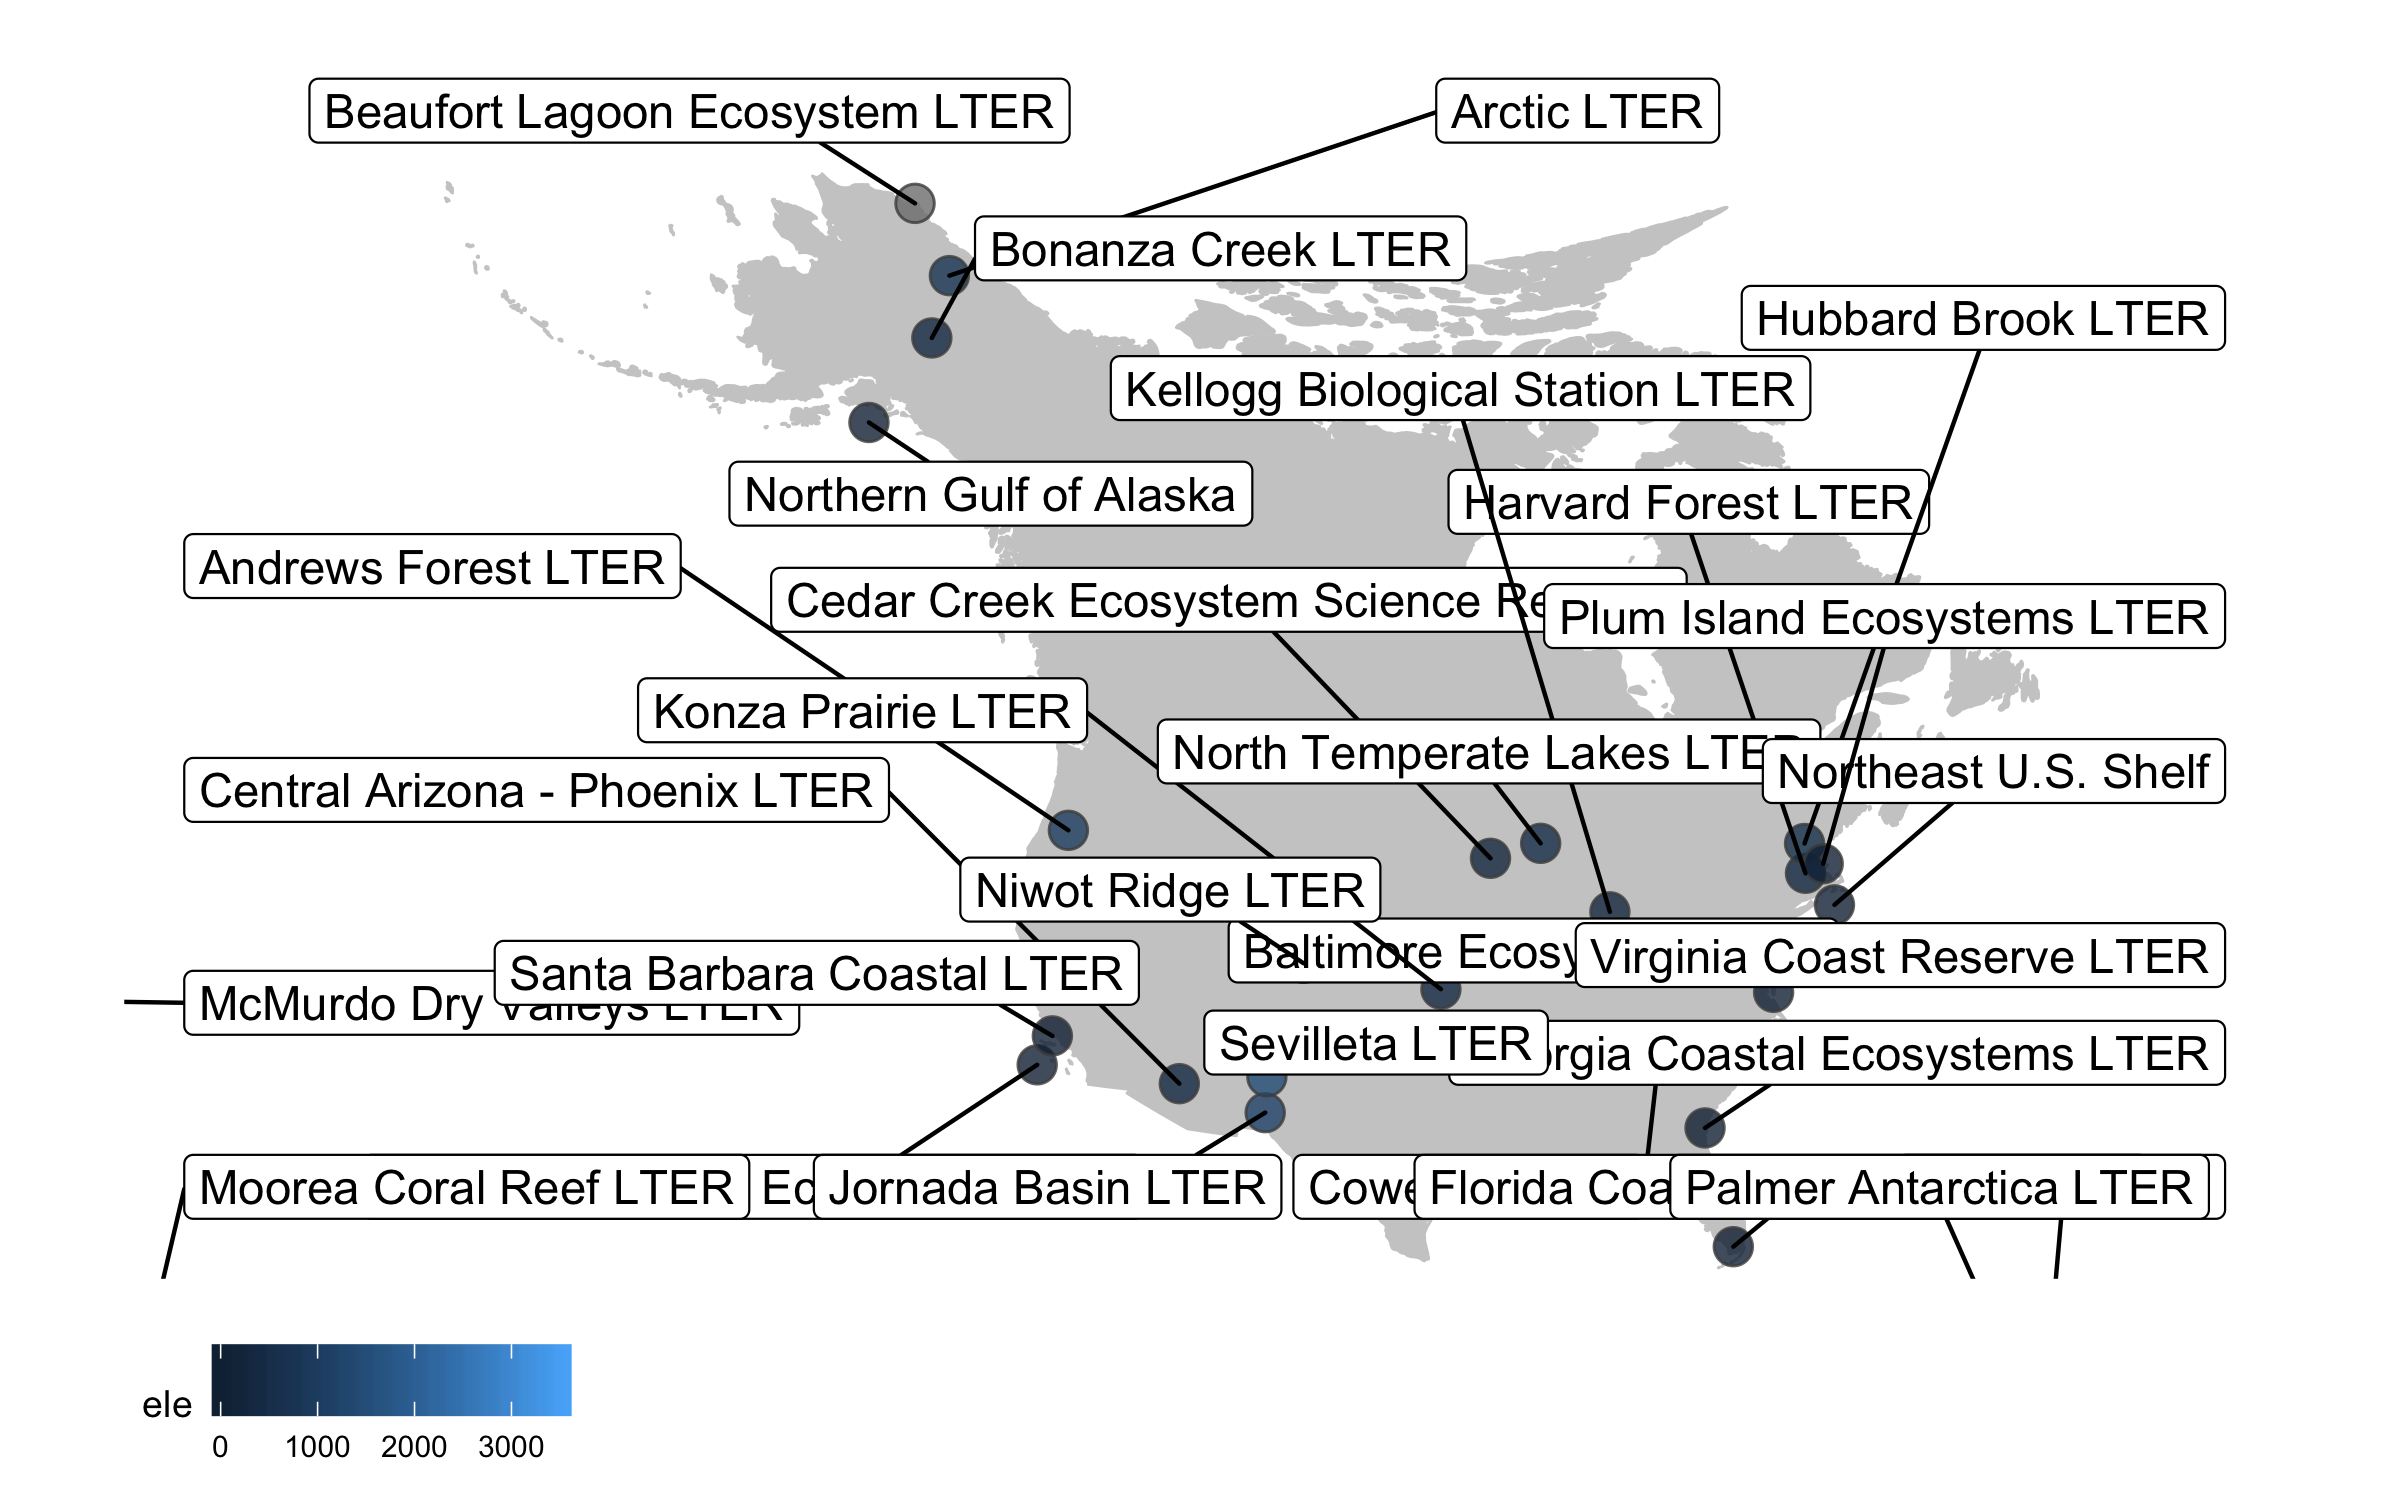
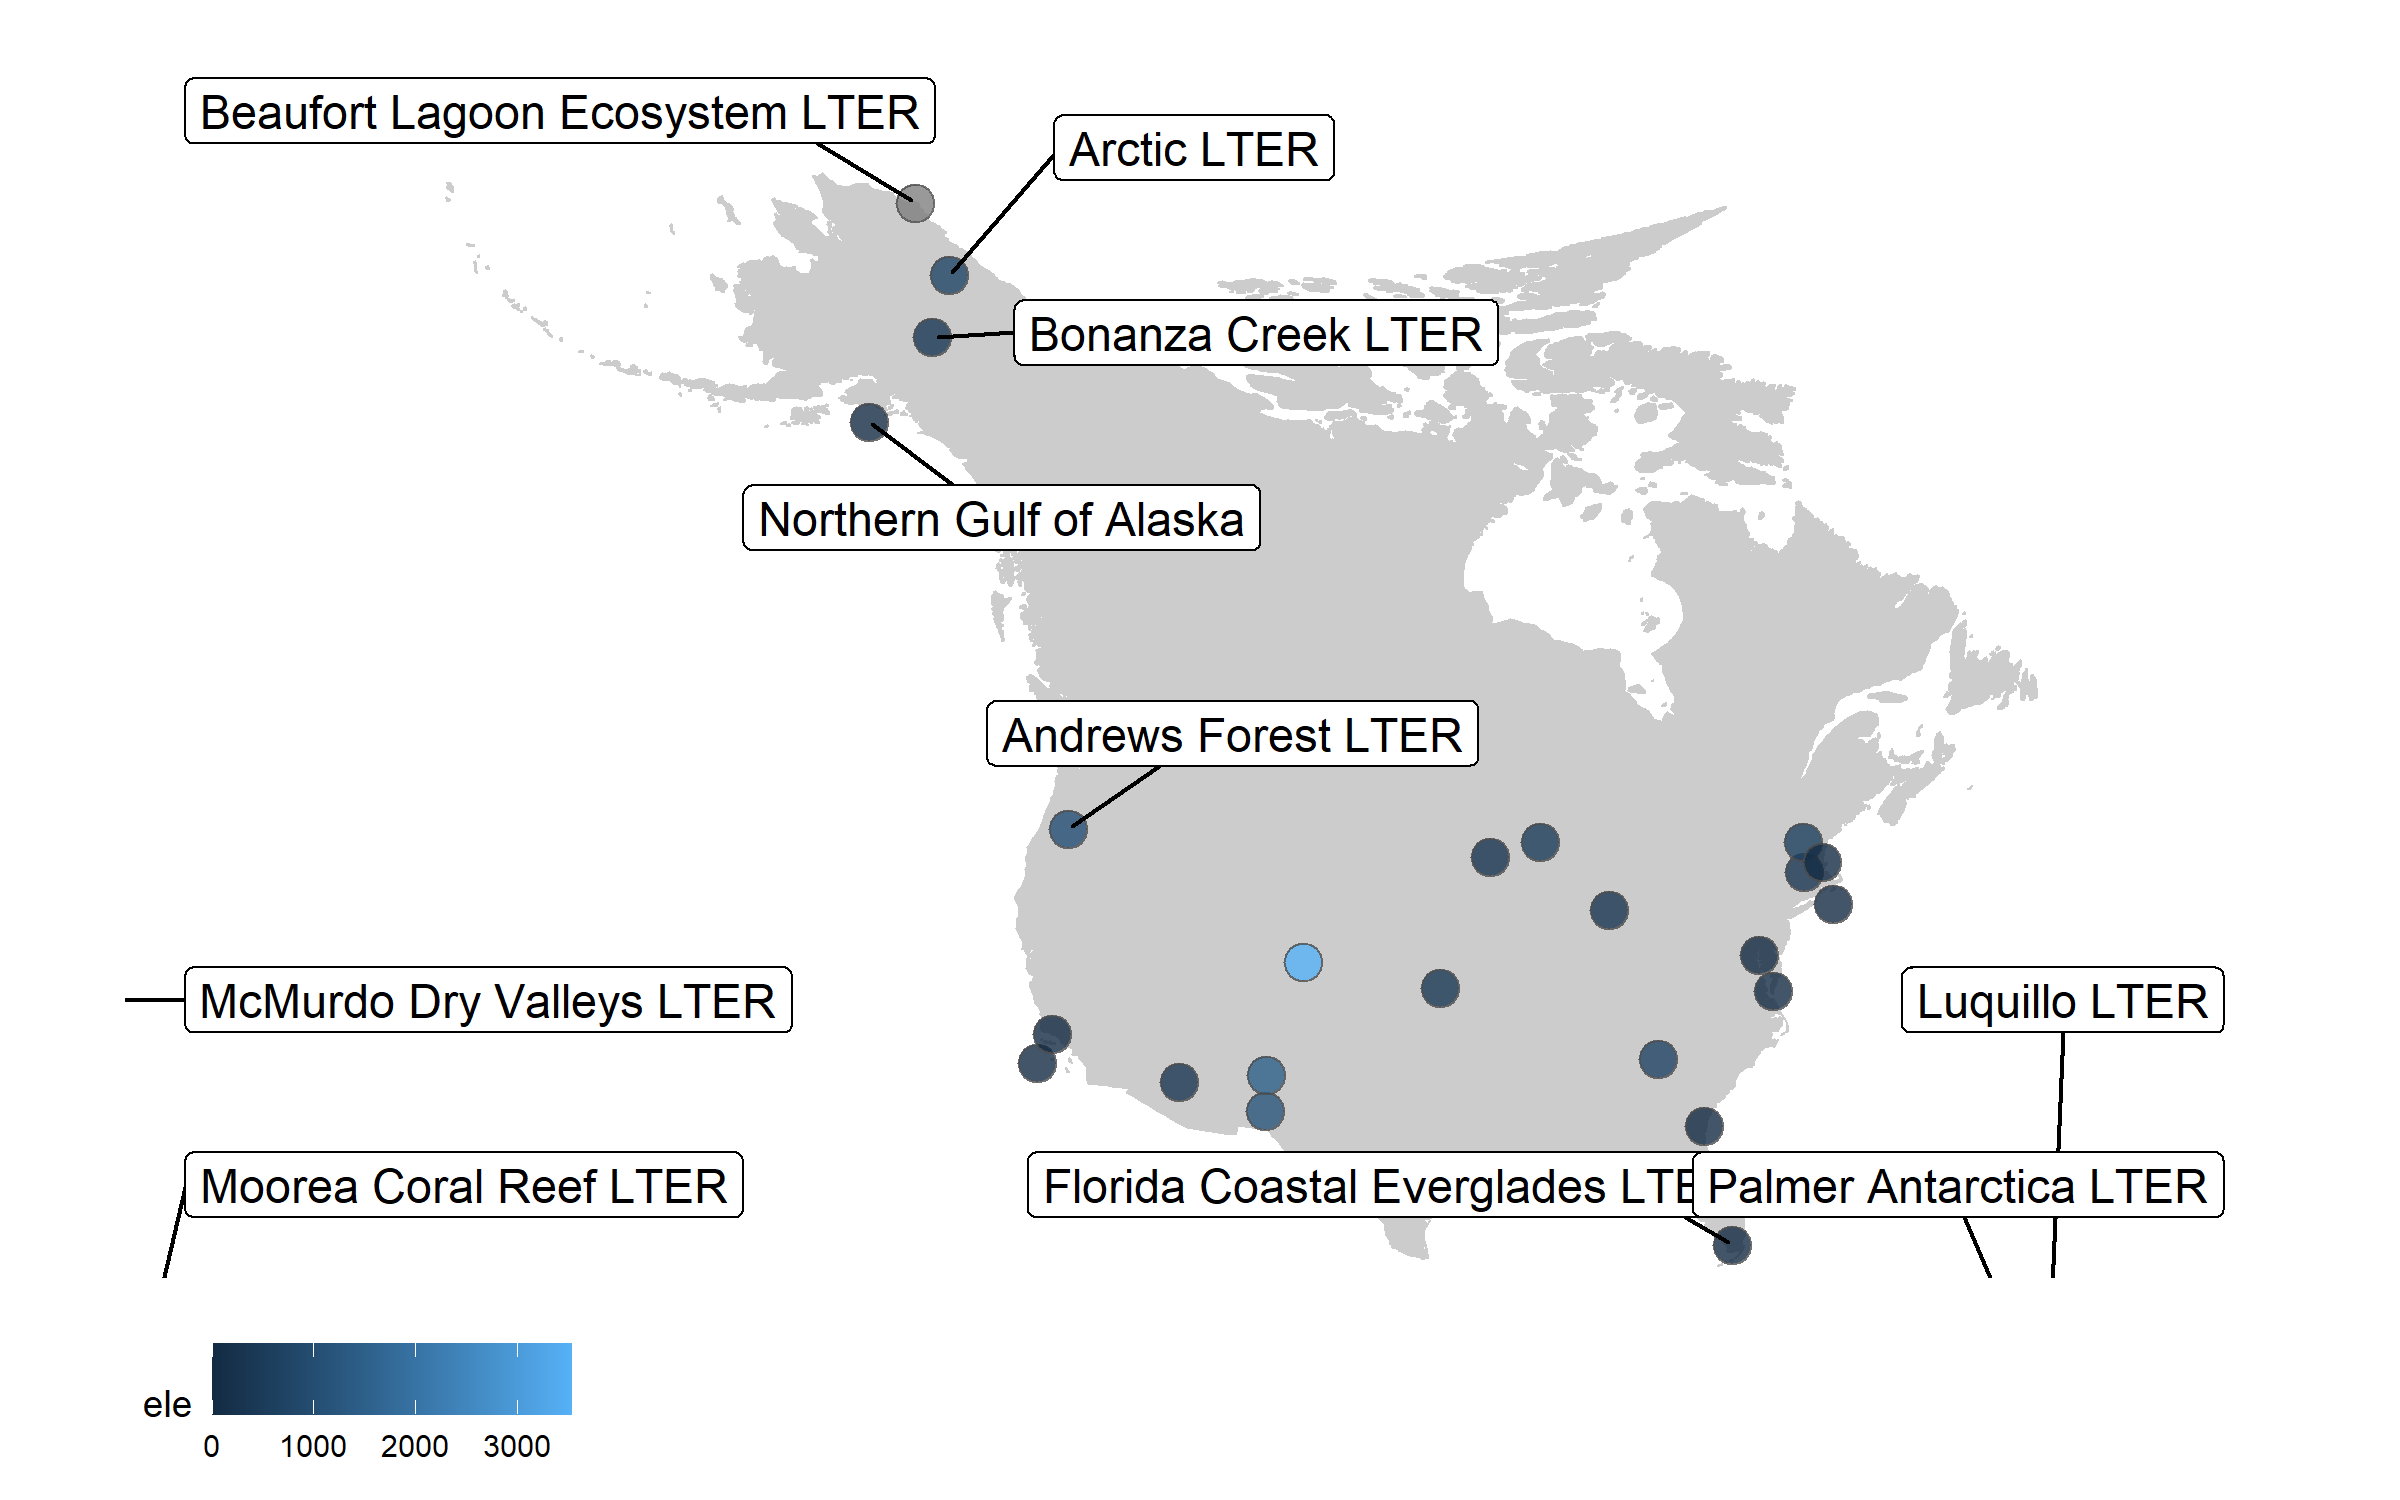
minor fixes - dataviz-beautification-synthesis
... and more images moved to dedicated images folder

diff --git a/_tutorials/dataviz-beautification-synthesis.md b/_tutorials/dataviz-beautification-synthesis.md
@@ -273,7 +273,7 @@ ggsave(lter_map6, filename = "map6.png",
 
 <center> <img src="{{ site.baseurl }}/assets/img/tutorials/dataviz-beautification-synthesis/map6.png" alt="Img" style="width: 700px;"/> </center>
 
-Well, we _slightly_ overdid it with the labels, we have a lot of sites and it's definitely an eye sore to look at all of their names at once. But where annotations really shine is in drawing attention to a specific point or data record. So we can add a label just for one of the sites, Niwot Ridge, from where the plant data for the rest of the tutorial comes.
+Well, we _slightly_ overdid it with the labels, so we got a warning that there are too many labels and a map where they don't overlap a lot couldn't be constructed. (Depending on your version of packages, you may instead get a map with all the labels, but with too many of them overlapping). But where annotations really shine is in drawing attention to a specific point or data record. So we can add a label just for one of the sites, Niwot Ridge, from where the plant data for the rest of the tutorial comes.
 
 ```r
 (lter_map7 <- ggplot() +
@@ -425,8 +425,9 @@ ggsave(distributions2, filename = "distributions2.png",
 
 <center> <img src="{{ site.baseurl }}/assets/img/tutorials/dataviz-beautification-synthesis/distributions2.png" alt="Img" style="width: 500px;"/> </center>
 
+__You may get a warning that the font in the theme is not available on your computer.__ If that happens, go back to the code chunk constructing `theme_niwot()` and remove the font line `text = element_text(family = "Helvetica Light"),` or replace the font with another one you have available. Then, remember to re-run that code chunk to update the function before proceeding.
 
-This is better, but it's still taxing on a reader or observer of the graph to figure out, for example, where is the mean in each cateogry. Thus we can overlay the violins with box plots.
+This graph is better, but it's still taxing on a reader or observer of the graph to figure out, for example, where is the mean in each cateogry. Thus we can overlay the violins with box plots.
 
 ```r
 (distributions3 <- ggplot(niwot_richness, aes(x = fert, y = richness)) +
@@ -740,7 +741,7 @@ bird_traits <- read.csv("elton_birds.csv")
 
 We can check out what the data look like now, either by clicking on the objects name on the right in the list in your working environment, or by running `View(bird_pops)` in the console.
 
-<center> <img src="{{ site.baseurl }}/assets/img/tutorials/data-synthesis/ox_wide.png" alt="Img" style="width: 600px;"/> </center>
+<center> <img src="{{ site.baseurl }}/assets/img/tutorials/dataviz-beautification-synthesis/ox_wide.png" alt="Img" style="width: 600px;"/> </center>
 
 __The data are in a wide format (each row contains a population that has been monitored over time and towards the right of the data frame there are lots of columns with population estimates for each year) and the column names are capitalised. Whenever working with data from different sources, chances are each dataset will follow a different column naming system, which can get confusing later on, so in general it is best to pick whatever naming system works for you and apply that to all datasets before you start working with them.__
 
@@ -771,7 +772,7 @@ Because column names are coded in as characters, when we turned the column names
 bird_pops_long$year <- parse_number(bird_pops_long$year)
 ```
 
-<center> <img src="{{ site.baseurl }}/assets/img/tutorials/data-synthesis/ox_long.png" alt="Img" style="width: 600px;"/> </center>
+<center> <img src="{{ site.baseurl }}/assets/img/tutorials/dataviz-beautification-synthesis/ox_long.png" alt="Img" style="width: 600px;"/> </center>
 
 Check out the data frame again to make sure the years really look like years. As you're looking through, you might notice something else. We have many columns in the data frame, but there isn't a column with the species' name. We can make one super quickly, since there are already columns for the genus and the species.
 
@@ -869,7 +870,7 @@ head(aus_models)
 # Check out the model data frame
 ```
 
-<center> <img src="{{ site.baseurl }}/assets/img/tutorials/data-synthesis/model_df.png" alt="Img" style="width: 600px;"/> </center>
+<center> <img src="{{ site.baseurl }}/assets/img/tutorials/dataviz-beautification-synthesis/model_df.png" alt="Img" style="width: 600px;"/> </center>
 
 <a name="synthesis"></a>
 
@@ -902,7 +903,7 @@ bird_models_traits <- left_join(aus_models, bird_diet, by = "species.name") %>%
 head(bird_models_traits)
 ```
 
-<center> <img src="{{ site.baseurl }}/assets/img/tutorials/data-synthesis/joined.png" alt="Img" style="width: 600px;"/> </center>
+<center> <img src="{{ site.baseurl }}/assets/img/tutorials/dataviz-beautification-synthesis/joined.png" alt="Img" style="width: 600px;"/> </center>
 
 __Now we can explore how bird population trends vary across different feeding strategies. The graphs below are all different ways to answer the same question. Have a ponder about which graph you like the most.__
 
@@ -917,22 +918,22 @@ __Now we can explore how bird population trends vary across different feeding st
 
 ```
 
-<center> <img src="{{ site.baseurl }}/assets/img/tutorials/data-synthesis/trends_diet1a.png" alt="Img" style="width: 500px;"/>  <img src="{{ site.baseurl }}/assets/img/tutorials/data-synthesis/trends_diet1b.png" alt="Img" style="width: 500px;"/></center>
+<center> <img src="{{ site.baseurl }}/assets/img/tutorials/dataviz-beautification-synthesis/trends_diet1a.png" alt="Img" style="width: 500px;"/>  <img src="{{ site.baseurl }}/assets/img/tutorials/dataviz-beautification-synthesis/trends_diet1b.png" alt="Img" style="width: 500px;"/></center>
 
 To make the graph more informative, we can add a line for the overall mean population trend, and then we can easily compare how the diet-specific trends compare to the overall mean trend. We can also plot the mean trend per diet category and we can sort the graph so that it goes from declines to increases.
 
 ```r
-# Calculating mean trends per diet categories
-diet_means <- bird_models_traits %>% group_by(diet) %>%
-  summarise(mean_trend = mean(estimate)) %>%
-  arrange(mean_trend)
-
 # Sorting the whole data frame by the mean trends
 bird_models_traits <- bird_models_traits %>%
   group_by(diet) %>%
   mutate(mean_trend = mean(estimate)) %>%
   ungroup() %>%
   mutate(diet = fct_reorder(diet, -mean_trend))
+
+# Calculating mean trends per diet categories
+diet_means <- bird_models_traits %>% group_by(diet) %>%
+  summarise(mean_trend = mean(estimate)) %>%
+  arrange(mean_trend)
 ```
 
 Finally, we can also use `geom_segment` to connect the points for the mean trends to the line for the overall mean, so we can judge how far off each category is from the mean.
@@ -964,7 +965,7 @@ Finally, we can also use `geom_segment` to connect the points for the mean trend
   guides(colour = FALSE, fill = FALSE))
 ```
 
-<center> <img src="{{ site.baseurl }}/assets/img/tutorials/data-synthesis/trends_diet.png" alt="Img" style="width: 500px;"/></center>
+<center> <img src="{{ site.baseurl }}/assets/img/tutorials/dataviz-beautification-synthesis/trends_diet.png" alt="Img" style="width: 500px;"/></center>
 
 Like before, we can save the graph using `ggsave`.
 
@@ -989,7 +990,7 @@ Now that we know the numbers, we can visualise them. A barplot would be a classi
     geom_bar(stat = "identity") +
     scale_colour_manual(values = wes_palette("Cavalcanti1")) +
     scale_fill_manual(values = wes_palette("Cavalcanti1")) +
-    guides(fill = FALSE))
+    guides(colour = FALSE))
 
 (diet_area <- ggplot(diet_sum, aes(area = n, fill = diet, label = n,
                                  subgroup = diet)) +
@@ -1002,9 +1003,9 @@ Now that we know the numbers, we can visualise them. A barplot would be a classi
     # later on we will combine multiple plots so there is no need for the legend
     # to be in twice
 
-# To display the legend, just remove the guides() line
+# To display the legend, just remove the guides() line:
 (diet_area <- ggplot(diet_sum, aes(area = n, fill = diet, label = n,
-                                 subgroup = diet)) +
+                                   subgroup = diet)) +
     geom_treemap() +
     geom_treemap_subgroup_border(colour = "white", size = 1) +
     geom_treemap_text(colour = "white", place = "center", reflow = T) +
@@ -1015,7 +1016,7 @@ ggsave(diet_area, filename = "diet_area.png",
        height = 5, width = 8)
 ```
 
-<center> <img src="{{ site.baseurl }}/assets/img/tutorials/data-synthesis/diet_area.png" alt="Img" style="width: 500px;"/>  <img src="{{ site.baseurl }}/assets/img/tutorials/data-synthesis/diet_area2.png" alt="Img" style="width: 500px;"/></center>
+<center> <img src="{{ site.baseurl }}/assets/img/tutorials/dataviz-beautification-synthesis/diet_bar.png" alt="Img" style="width: 500px;"/>  <img src="{{ site.baseurl }}/assets/img/tutorials/dataviz-beautification-synthesis/diet_area2.png" alt="Img" style="width: 500px;"/></center>
 
 __We've covered spatial representation of the data (our map), as well as the kinds of species (the diet figures), now we can cover another dimention - time! We can make a timeline of the individual studies to see what time periods are best represented.__
 
@@ -1038,7 +1039,7 @@ bird_models_traits$id <- as.factor(as.character(bird_models_traits$id))
 
 Well this looks untidy! The values are not sorted properly and it looks like a mess, but that happens often when making figures, part of the figure beautification journey. We can fix the graph with the code below.
 
-<center> <img src="{{ site.baseurl }}/assets/img/tutorials/data-synthesis/timeline3.png" alt="Img" style="width: 600px;"/></center>
+<center> <img src="{{ site.baseurl }}/assets/img/tutorials/dataviz-beautification-synthesis/timeline3.png" alt="Img" style="width: 600px;"/></center>
 
 ```r
 # Create a sorting variable
@@ -1085,7 +1086,7 @@ ggsave(timeline_aus, filename = "timeline.png",
        height = 5, width = 8)
 ```
 
-<center> <img src="{{ site.baseurl }}/assets/img/tutorials/data-synthesis/timeline2.png" alt="Img" style="width: 600px;"/></center>
+<center> <img src="{{ site.baseurl }}/assets/img/tutorials/dataviz-beautification-synthesis/timeline2.png" alt="Img" style="width: 600px;"/></center>
 
 __For our final figure using our combined dataset of population trends and species' traits, we will make a figure classic - the scatterplot. Body mass can sometimes be a good predictor of how population trends and extinction risk vary, so let's find out if that's true for the temporal changes in abundance across monitored populations of Australian birds.__
 
@@ -1130,7 +1131,7 @@ ggsave(trends_mass, filename = "trends_mass.png",
        height = 5, width = 6)
 ```
 
-<center> <img src="{{ site.baseurl }}/assets/img/tutorials/data-synthesis/trends_mass1.png" alt="Img" style="width: 500px;"/>  <img src="{{ site.baseurl }}/assets/img/tutorials/data-synthesis/trends_mass2.png" alt="Img" style="width: 500px;"/></center>
+<center> <img src="{{ site.baseurl }}/assets/img/tutorials/dataviz-beautification-synthesis/trends_mass1.png" alt="Img" style="width: 500px;"/>  <img src="{{ site.baseurl }}/assets/img/tutorials/dataviz-beautification-synthesis/trends_mass2.png" alt="Img" style="width: 500px;"/></center>
 
 ### Congrats on taking three different types of figures on beautification journeys and all the best with the rest of your data syntheses!
 
